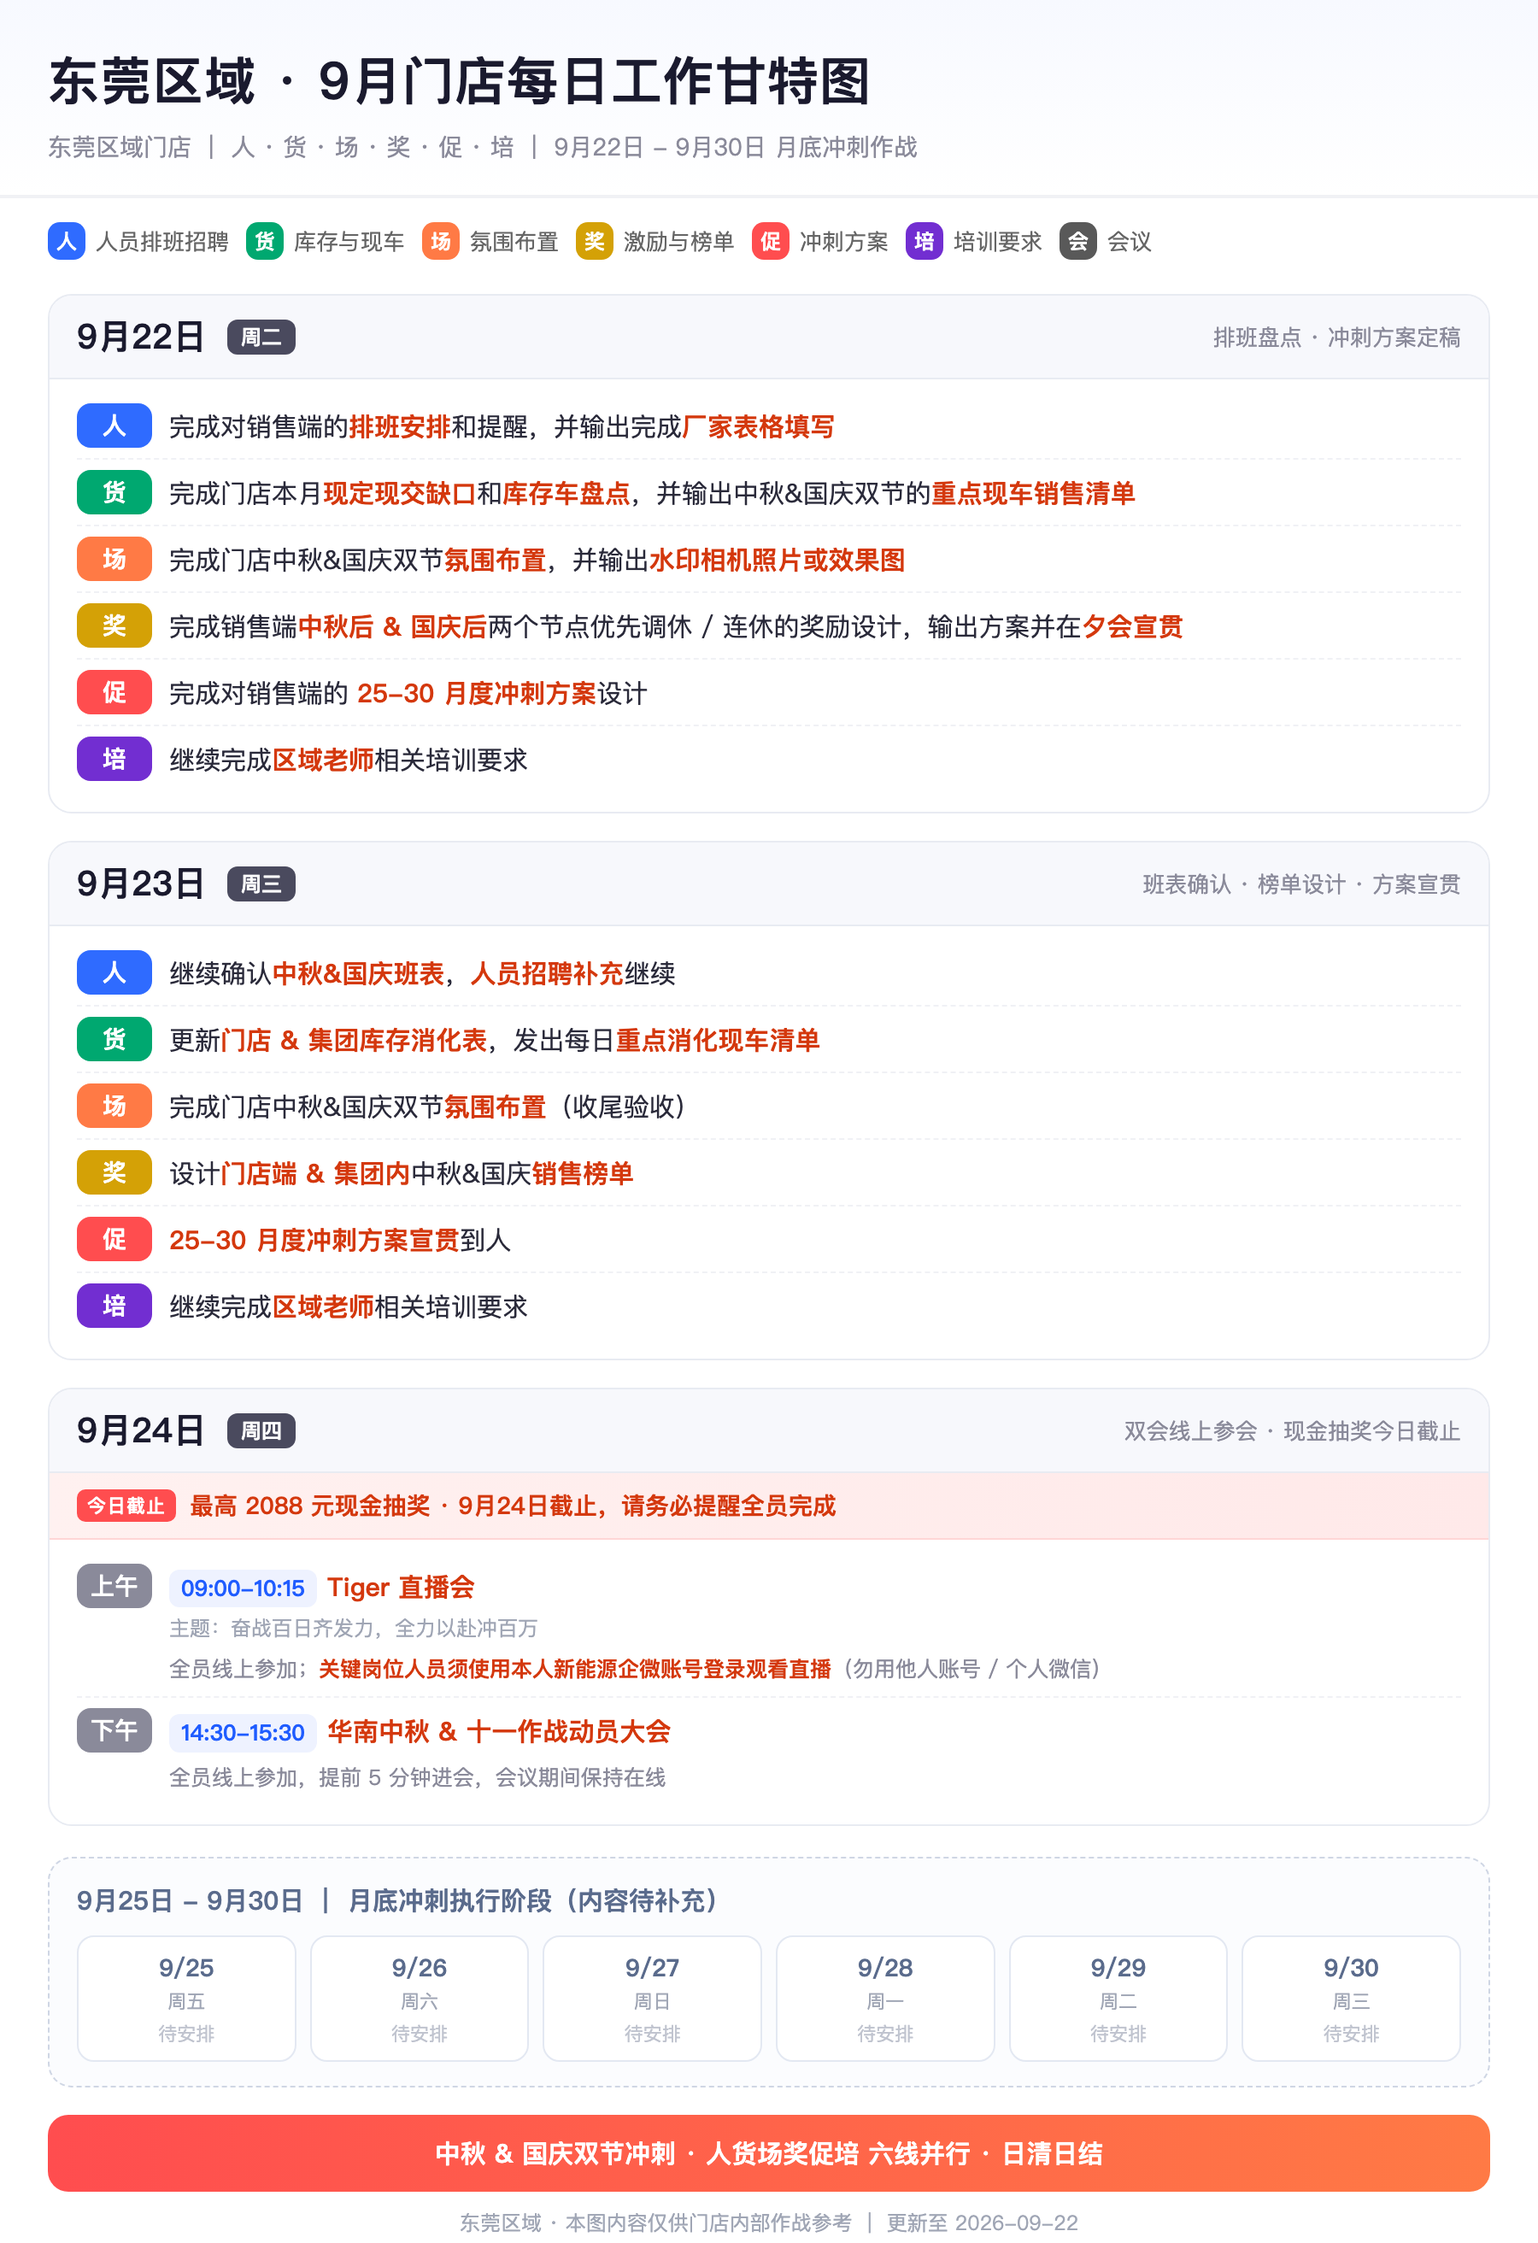
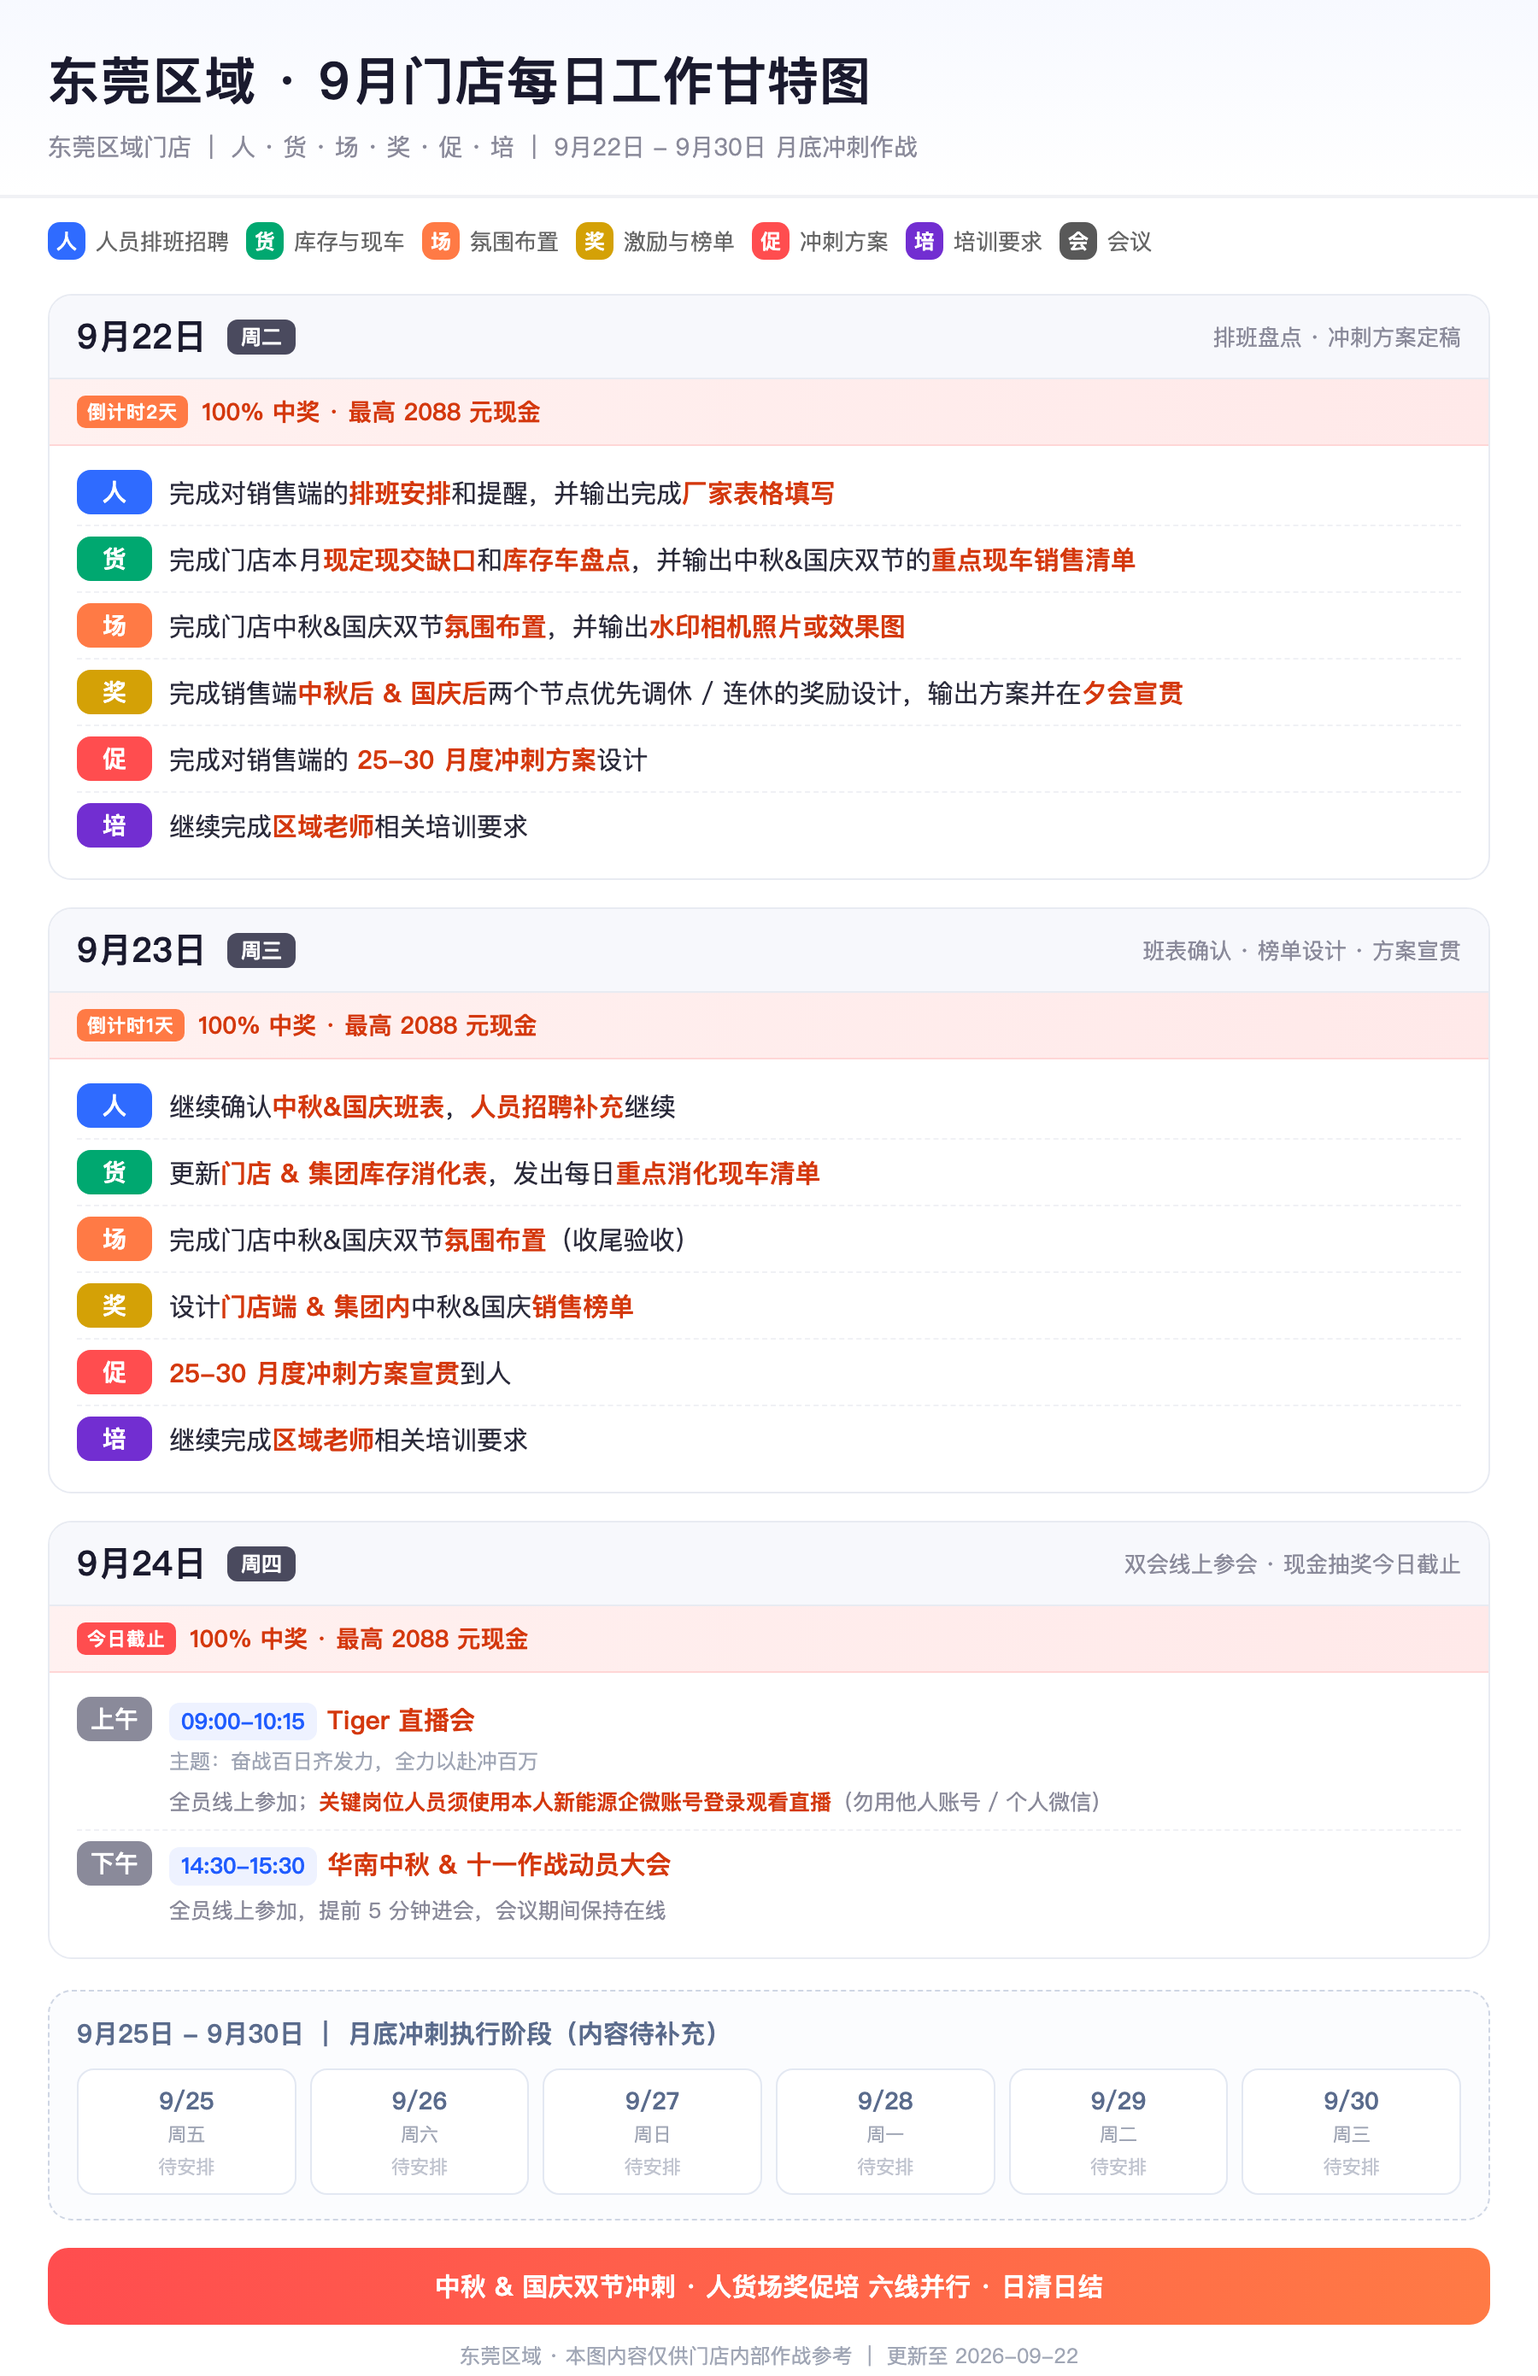
9/22-9/24 三天均加现金抽奖高亮条：倒计时2天/1天/今日截止 · 100%中奖 · 最高2088元现金

diff --git a/index.html b/index.html
@@ -36,6 +36,7 @@
   .note b{color:#d4380d;}
   .dayalert{display:flex;align-items:center;gap:8px;padding:9px 16px;background:linear-gradient(90deg,#fff1f0,#ffe9e9);border-bottom:1px solid #ffd6d6;color:#d4380d;font-size:14px;font-weight:800;}
   .ab{background:#ff4d4f;color:#fff;font-size:11px;font-weight:800;border-radius:5px;padding:2px 6px;letter-spacing:.5px;}
+  .ab.warn{background:#ff7a45;}
   .mtitle{font-size:12px;color:#a0a6b5;display:block;margin-top:3px;}
 
   .t-ren{background:#2f6bff;} .t-huo{background:#00a870;} .t-chang{background:#ff7a45;}
@@ -107,6 +108,7 @@
       <span class='dnum'>9月22日</span><span class='dwk'>周二</span>
       <span class='dtitle'>排班盘点 · 冲刺方案定稿</span>
     </div>
+    <div class='dayalert'><span class='ab warn'>倒计时2天</span>100% 中奖 · 最高 2088 元现金</div>
     <div class='rows'>
       <div class='row'><span class='tag t-ren'>人</span><p>完成对销售端的<b>排班安排</b>和提醒，并输出完成<b>厂家表格填写</b></p></div>
       <div class='row'><span class='tag t-huo'>货</span><p>完成门店本月<b>现定现交缺口</b>和<b>库存车盘点</b>，并输出中秋&amp;国庆双节的<b>重点现车销售清单</b></p></div>
@@ -123,6 +125,7 @@
       <span class='dnum'>9月23日</span><span class='dwk'>周三</span>
       <span class='dtitle'>班表确认 · 榜单设计 · 方案宣贯</span>
     </div>
+    <div class='dayalert'><span class='ab warn'>倒计时1天</span>100% 中奖 · 最高 2088 元现金</div>
     <div class='rows'>
       <div class='row'><span class='tag t-ren'>人</span><p>继续确认<b>中秋&amp;国庆班表</b>，<b>人员招聘补充</b>继续</p></div>
       <div class='row'><span class='tag t-huo'>货</span><p>更新<b>门店 &amp; 集团库存消化表</b>，发出每日<b>重点消化现车清单</b></p></div>
@@ -139,7 +142,7 @@
       <span class='dnum'>9月24日</span><span class='dwk'>周四</span>
       <span class='dtitle'>双会线上参会 · 现金抽奖今日截止</span>
     </div>
-    <div class='dayalert'><span class='ab'>今日截止</span>最高 2088 元现金抽奖 · 9月24日截止，请务必提醒全员完成</div>
+    <div class='dayalert'><span class='ab'>今日截止</span>100% 中奖 · 最高 2088 元现金</div>
     <div class='rows'>
       <div class='row'>
         <span class='tag t-am'>上午</span>
